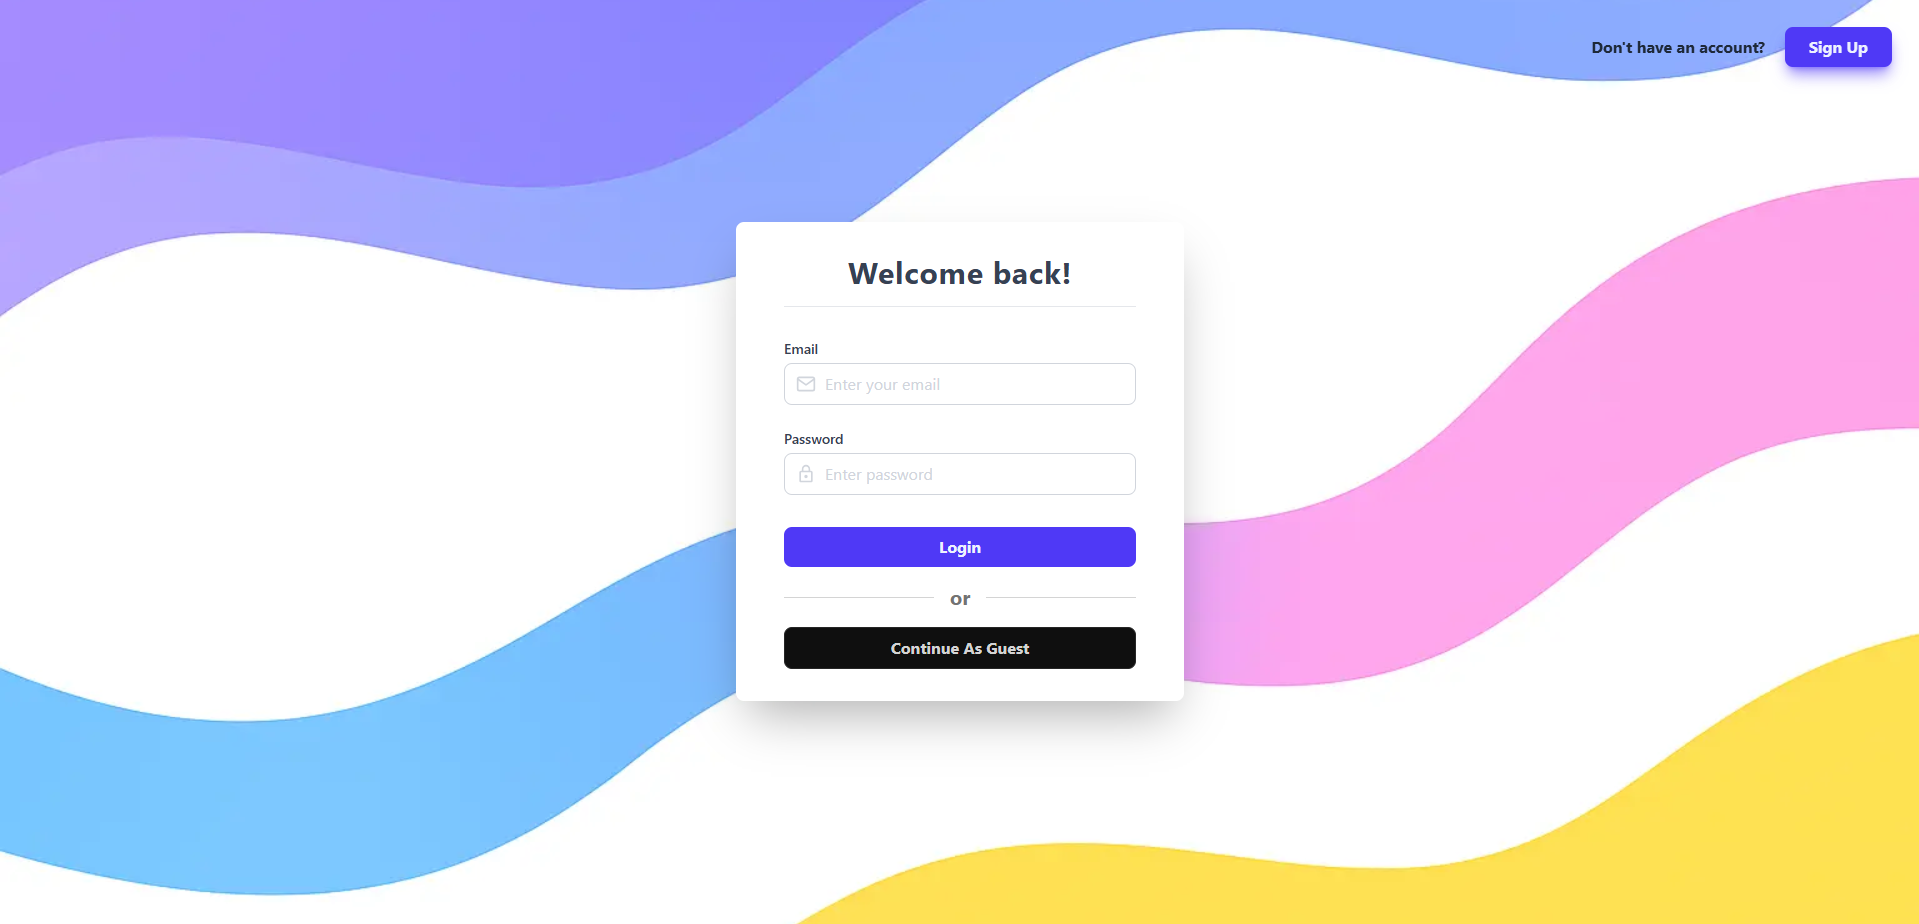
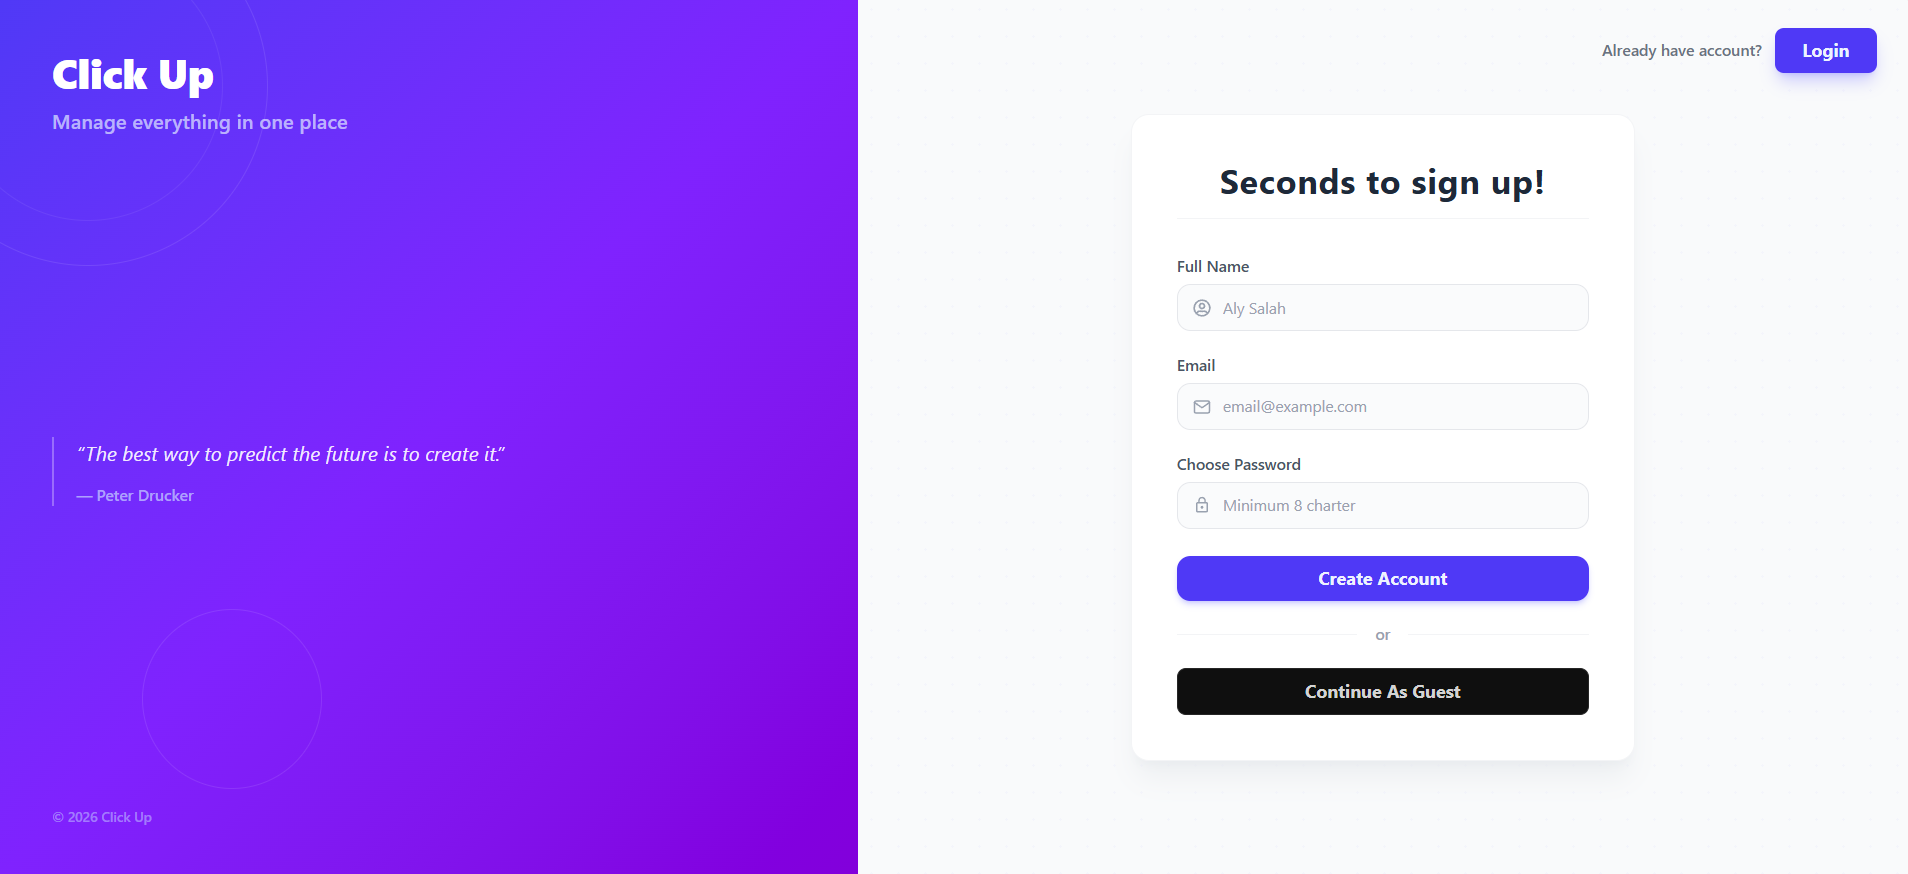
edited the assets images and edited the readme

diff --git a/README.md b/README.md
@@ -14,7 +14,17 @@
   <table>
     <tr>
       <td align="center">
-        <img src="assets/home-page.png" alt="Home Page" width="300" />
+        <img src="assets/homePage1.png" alt="Home Page" width="300" />
+        <br>
+        <strong>Home Page</strong>
+      </td>
+      <td align="center">
+        <img src="assets/homePage2.png" alt="Home Page" width="300" />
+        <br>
+        <strong>Home Page</strong>
+      </td>
+      <td align="center">
+        <img src="assets/homePage3.png" alt="Home Page" width="300" />
         <br>
         <strong>Home Page</strong>
       </td>
@@ -22,11 +32,6 @@
         <img src="assets/login.png" alt="Login" width="300" />
         <br>
         <strong>Login Page</strong>
-      </td>
-      <td align="center">
-        <img src="assets/signup.png" alt="Signup" width="300" />
-        <br>
-        <strong>Signup Page</strong>
       </td>
       <td align="center">
         <img src="assets/list-overview.png" alt="Overview" width="300" />
